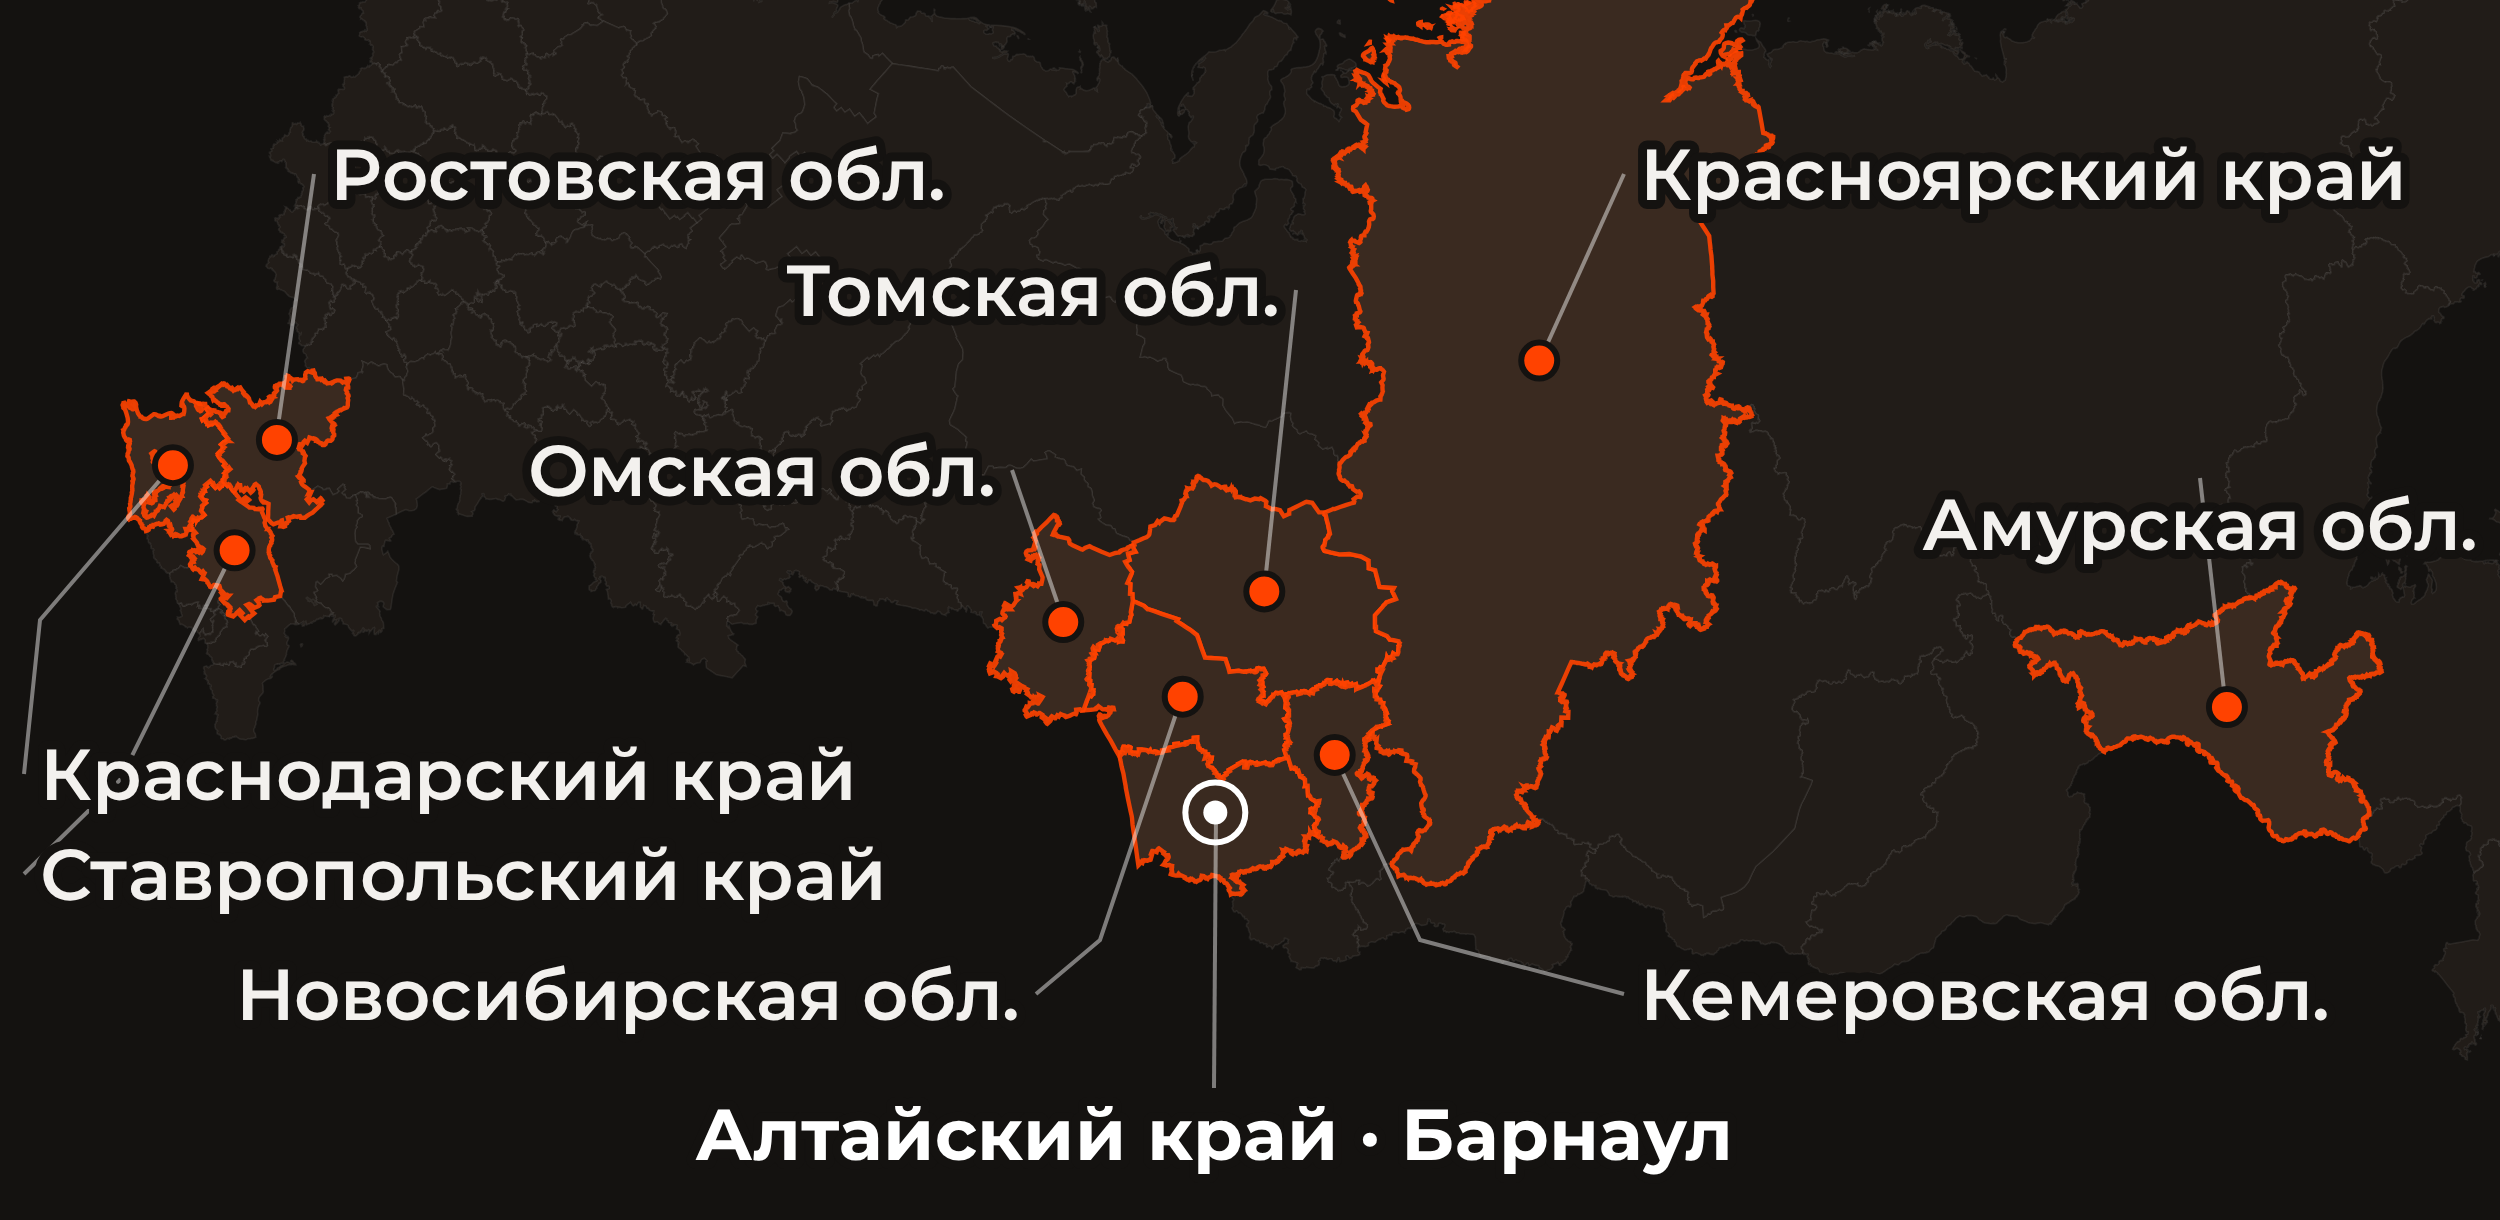
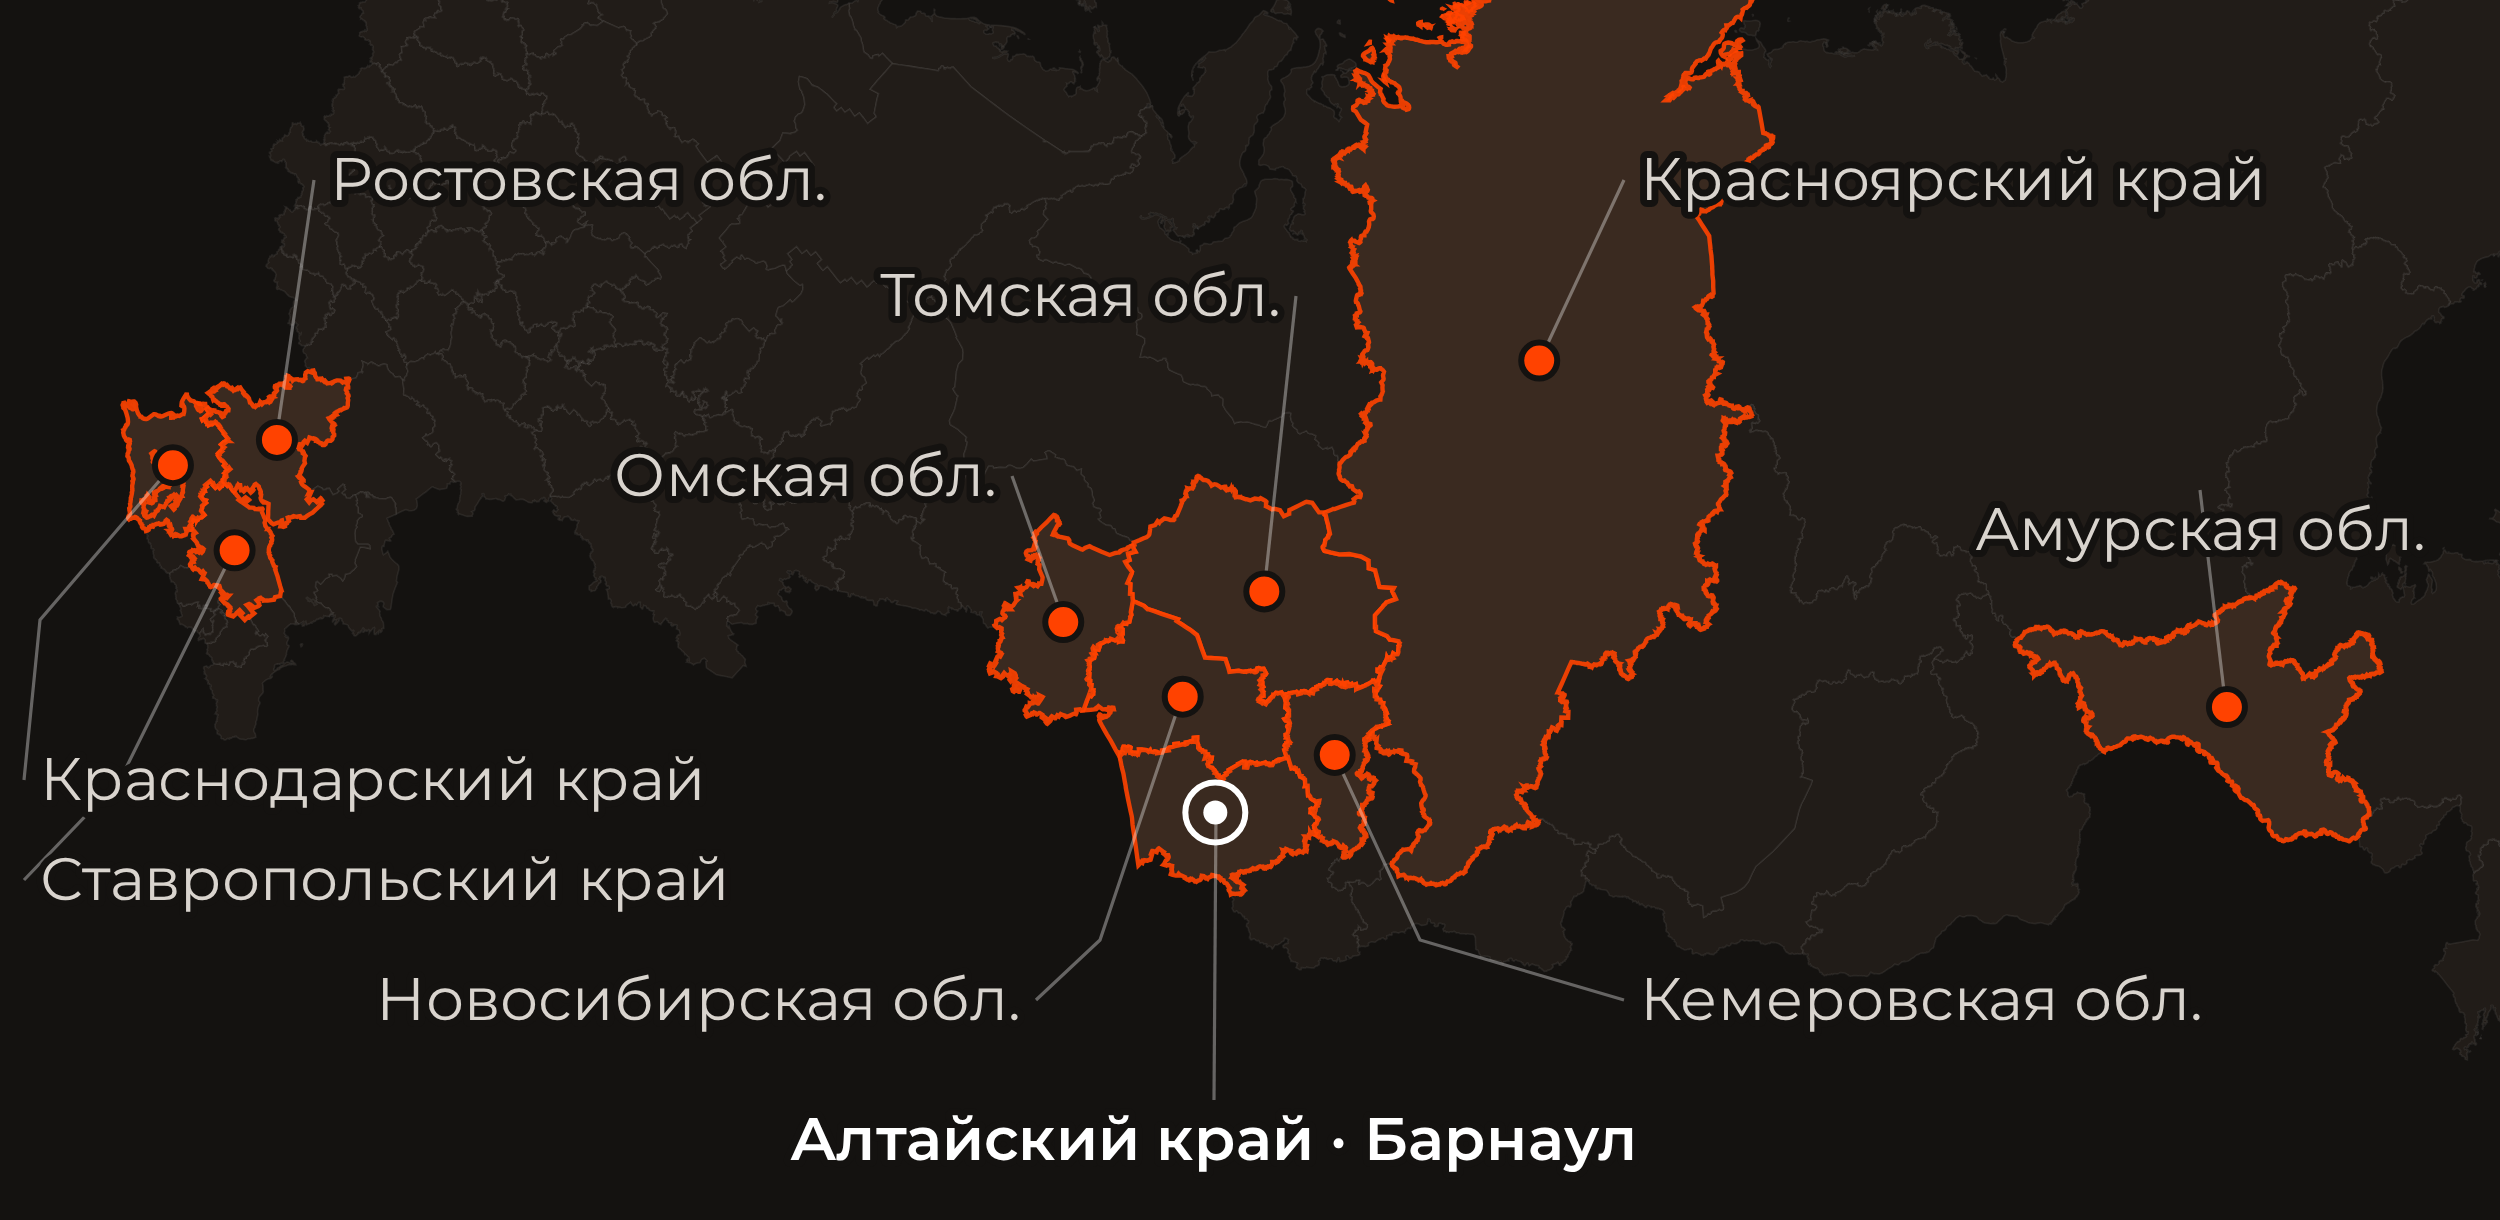
Мобильная карта: подписи мельче и тише
Claude-Session: https://claude.ai/code/session_017Yu2wUyZks2ZT3AxJsvZAM

diff --git a/design/geo-map/build_map_mobile.py b/design/geo-map/build_map_mobile.py
@@ -14,9 +14,9 @@ PIN, all_regions, path = g['PIN'], g['all_regions'], g['path']
 TARGETS, OFFICE, LABEL = g['TARGETS'], g['OFFICE'], g['LABEL']
 
 VX, VY, VW, VH = 50, 300, 1250, 610          # видимая область, единицы карты
-FS = 36                                        # ≈12px при ширине 390
+FS = 30                                        # ≈10px при ширине 390 — тише, аккуратнее
 BG = "#141210"; LAND = "#211C18"; LANDS = "rgba(255,255,255,.07)"
-HIL = "#3A2A20"; HILS = "rgba(255,66,0,.9)"; ORANGE = "#FF4200"; TXT = "#F3F1EE"; LEAD = "rgba(255,255,255,.45)"
+HIL = "#3A2A20"; HILS = "rgba(255,66,0,.9)"; ORANGE = "#FF4200"; TXT = "#D9D4CE"; LEAD = "rgba(255,255,255,.35)"
 
 # подпись: x, y, выравнивание, [точка излома выноски]
 LAB = {
@@ -46,7 +46,7 @@ for nm in TARGETS:                                   # выноски
     ty = ly - FS * 0.35 if anc != "middle" else ly - FS
     pts = [(px, py)] + ([knee] if knee else []) + [(tx, ty)]
     if ((px - tx) ** 2 + (py - ty) ** 2) ** .5 > 30:
-        svg.append('<polyline points="' + ' '.join(f'{x:.0f},{y:.0f}' for x, y in pts) + f'" fill="none" stroke="{LEAD}" stroke-width="2"/>')
+        svg.append('<polyline points="' + ' '.join(f'{x:.0f},{y:.0f}' for x, y in pts) + f'" fill="none" stroke="{LEAD}" stroke-width="1.6"/>')
 for nm in TARGETS:                                   # пины
     px, py = PIN[nm]
     if nm == OFFICE:
@@ -55,9 +55,9 @@ for nm in TARGETS:                                   # пины
         svg.append(f'<circle cx="{px}" cy="{py}" r="9" fill="{ORANGE}" stroke="{BG}" stroke-width="3"/>')
 for nm in TARGETS:                                   # подписи с тёмной обводкой — читаются поверх контуров
     lx, ly, anc, _ = LAB[nm]
-    w = 700 if nm == OFFICE else 600
+    w = 600 if nm == OFFICE else 500
     svg.append(f'<text x="{lx}" y="{ly}" font-size="{FS}" font-weight="{w}" fill="{"#fff" if nm == OFFICE else TXT}" '
-               f'text-anchor="{anc}" stroke="{BG}" stroke-width="9" paint-order="stroke" stroke-linejoin="round">{LABEL[nm]}</text>')
+               f'text-anchor="{anc}" stroke="{BG}" stroke-width="7" paint-order="stroke" stroke-linejoin="round">{LABEL[nm]}</text>')
 svg.append('</svg>')
 io.open(os.path.join(os.path.dirname(__file__), 'map_mobile_labels.svg'), 'w', encoding='utf-8').write('\n'.join(svg))
 print('ok')
